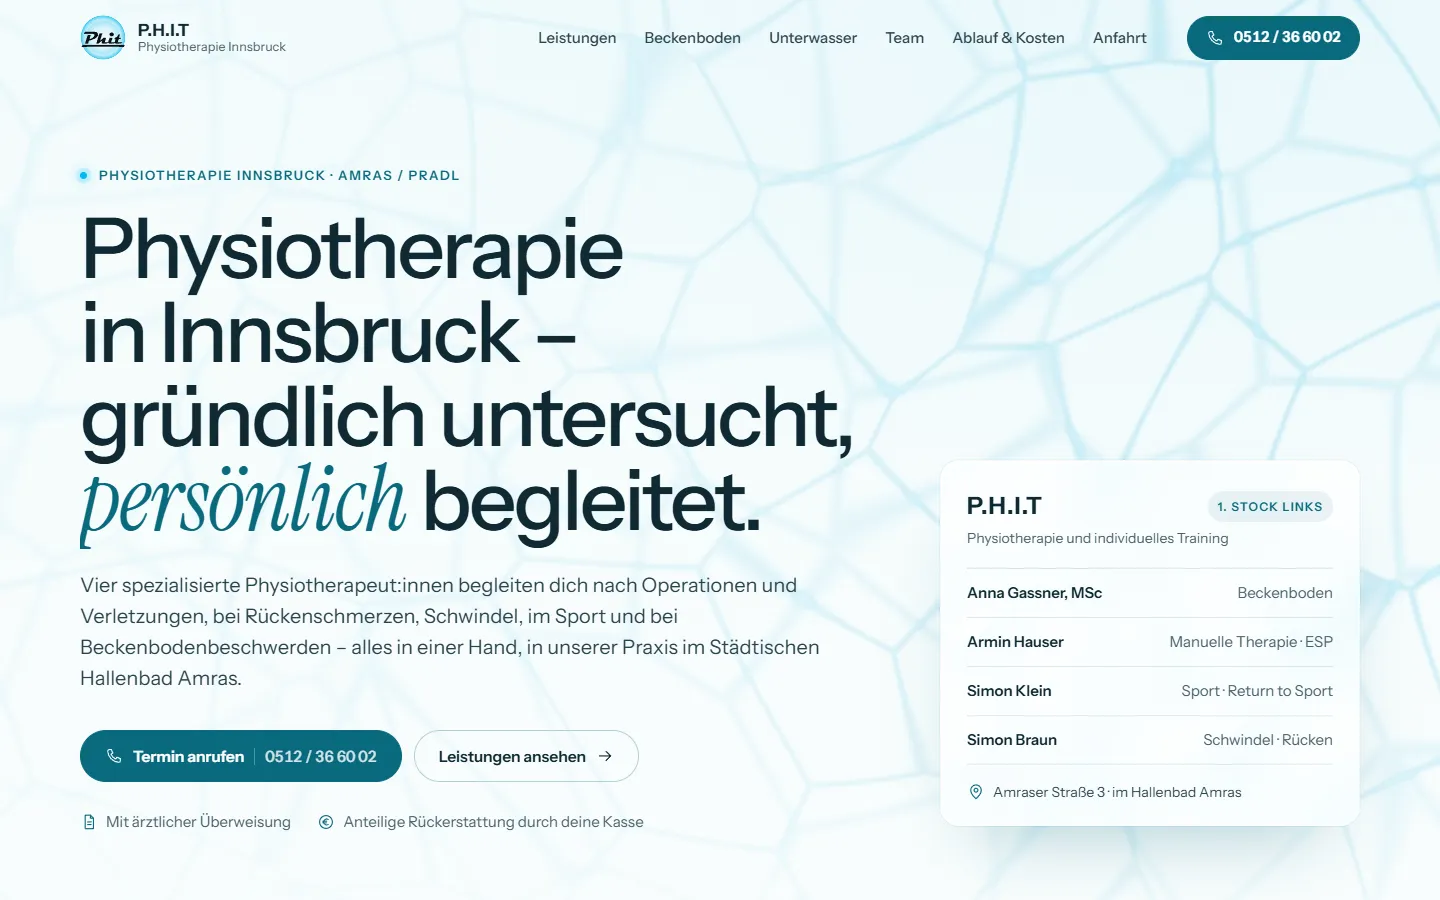
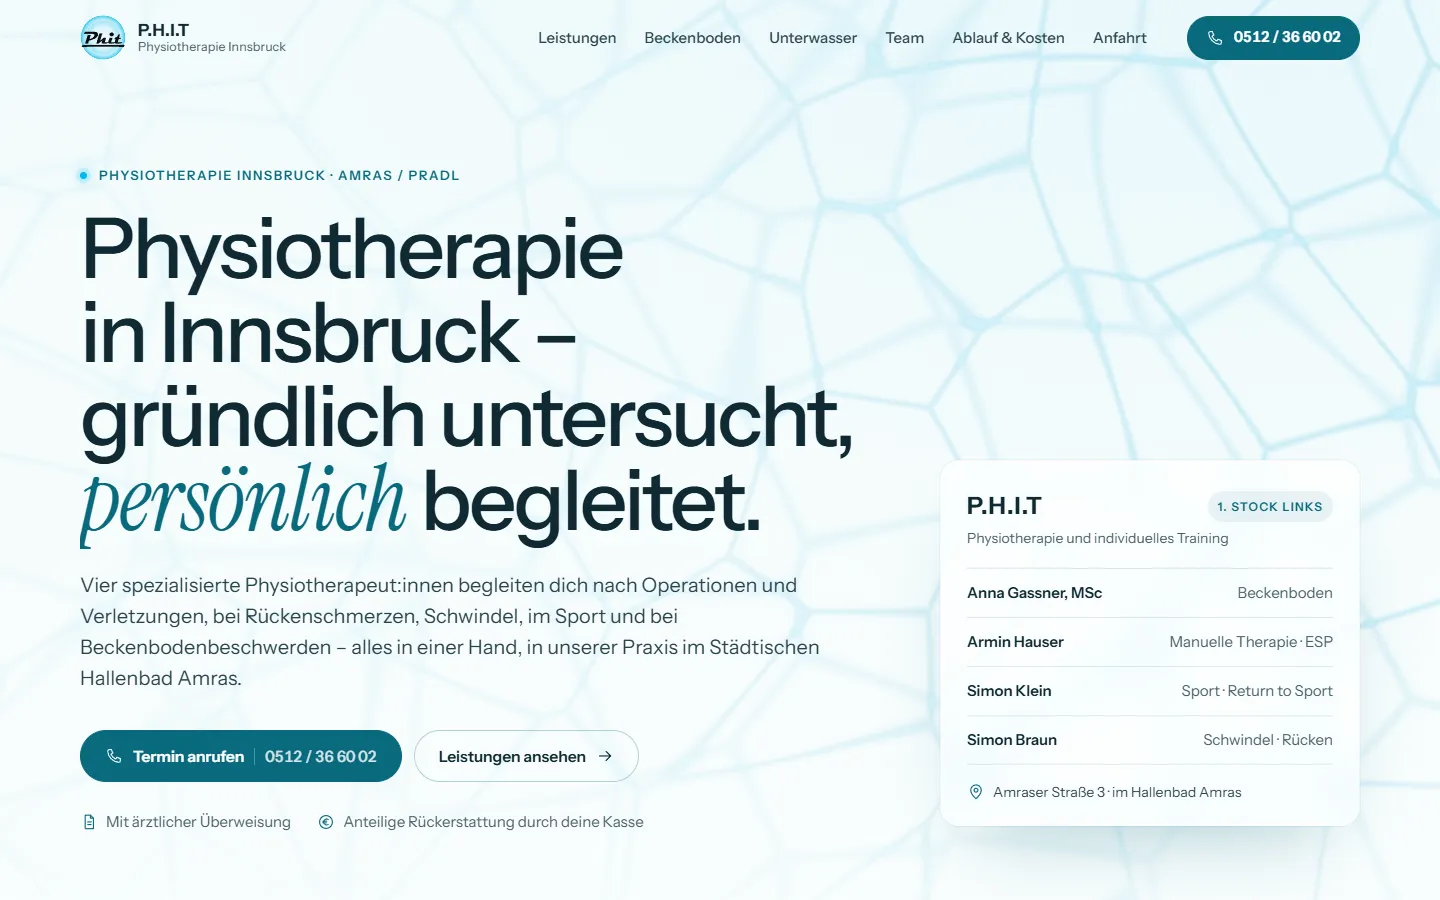
Klinik 4 Licht fertig

diff --git a/klinik-4-licht/js/main.js b/klinik-4-licht/js/main.js
@@ -148,10 +148,17 @@
     start: M.start,
     once: true,
     onEnter: function (batch) {
-      willChange(batch, 'transform, opacity');
-      gsap.to(batch, {
-        autoAlpha: 1, y: 0, duration: M.dur.m, ease: M.ease.out, stagger: M.stagger, overwrite: true,
-        onComplete: function () { gsap.set(batch, { clearProps: 'transform,willChange' }); }
+      // beim schnellen Springen (Anker, Lenis) nicht alles nacheinander staffeln:
+      // bereits passierte Elemente sofort zeigen, nur sichtbare Elemente kurz gestaffelt einblenden
+      var inView = [], passed = [];
+      batch.forEach(function (el) { (el.getBoundingClientRect().bottom < 0 ? passed : inView).push(el); });
+      if (passed.length) gsap.set(passed, { autoAlpha: 1, y: 0, clearProps: 'transform' });
+      if (!inView.length) return;
+      willChange(inView, 'transform, opacity');
+      gsap.to(inView, {
+        autoAlpha: 1, y: 0, duration: M.dur.m, ease: M.ease.out, overwrite: true,
+        stagger: Math.min(M.stagger, 0.48 / inView.length),
+        onComplete: function () { gsap.set(inView, { clearProps: 'transform,willChange' }); }
       });
     }
   });
